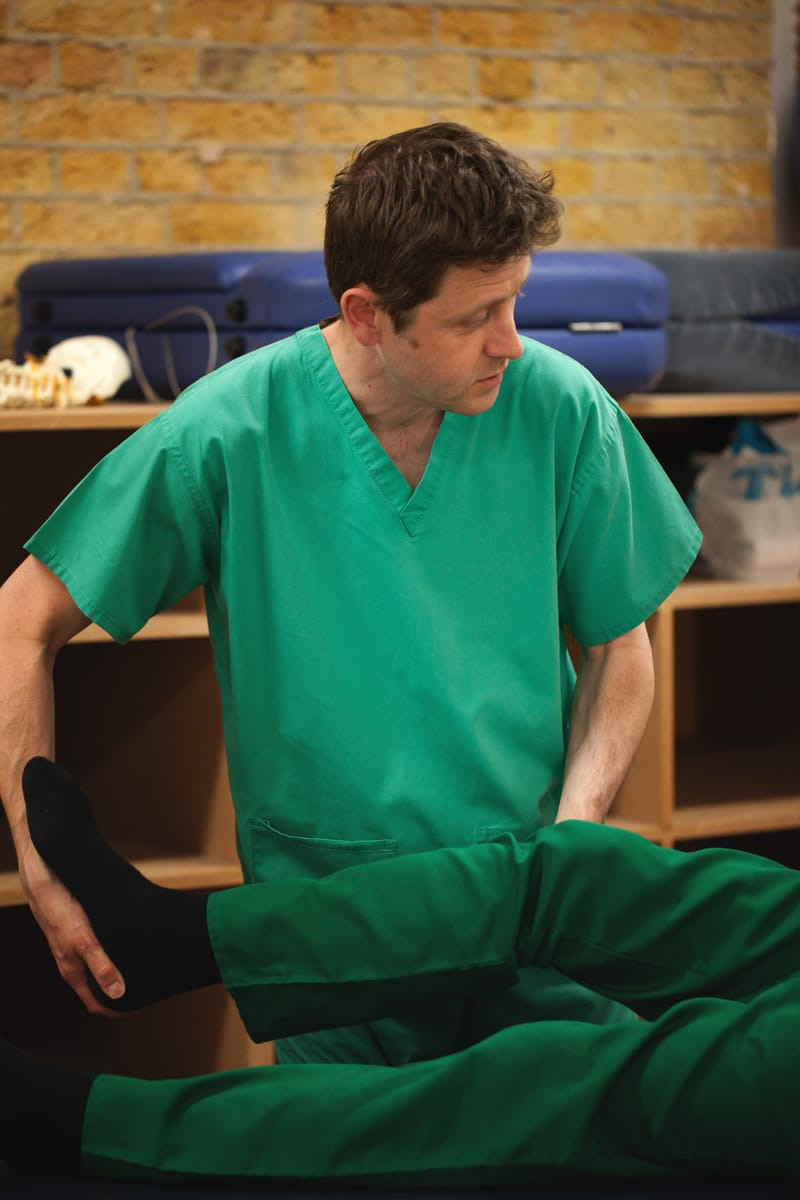
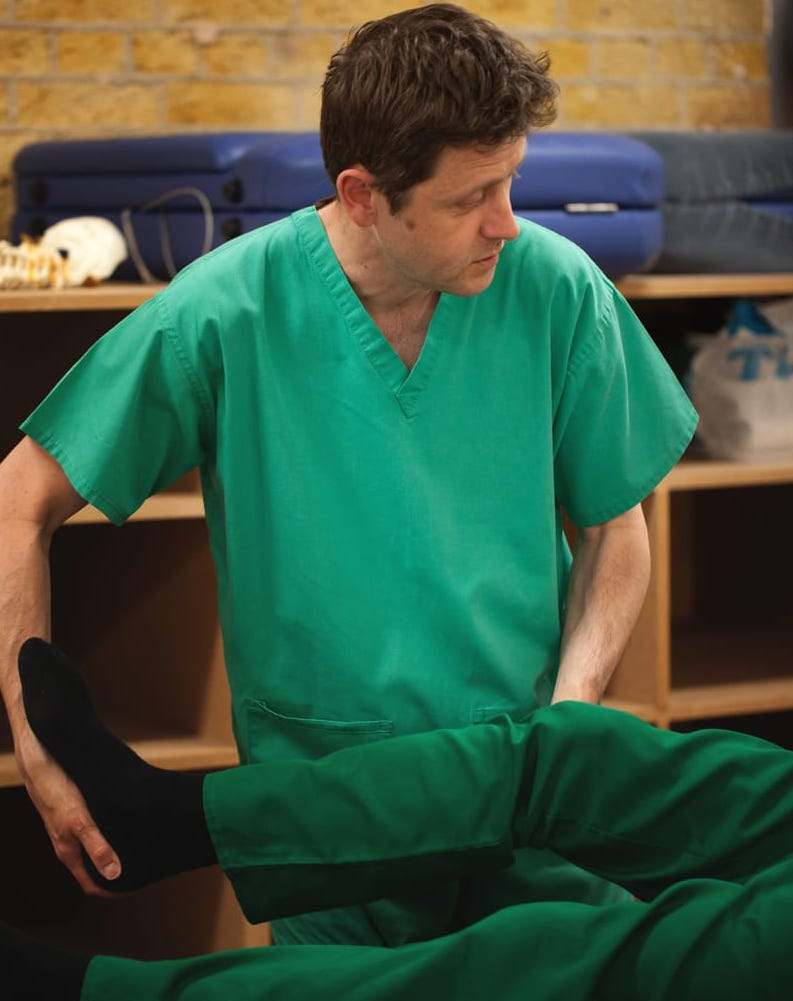
Solved Polaroid fit conundrum

diff --git a/files/gallery.html b/files/gallery.html
@@ -35,7 +35,15 @@
         <figcaption>A description can go here if you wish.</figcaption>
       </figure>
       <figure>
+        <img src="../lecturing-images/manus-1.jpg">
+        <figcaption>A description can go here if you wish.</figcaption>
+      </figure>
+      <figure>
         <img src="../lecturing-images/wa0015.jpg">
+        <figcaption>A description can go here if you wish.</figcaption>
+      </figure>
+      <figure>
+        <img src="../lecturing-images/manus-3.jpg">
         <figcaption>A description can go here if you wish.</figcaption>
       </figure>
       <figure>
@@ -91,15 +99,7 @@
         <figcaption>A description can go here if you wish.</figcaption>
       </figure>
       <figure>
-        <img src="../lecturing-images/manus-1.jpg">
-        <figcaption>A description can go here if you wish.</figcaption>
-      </figure>
-      <figure>
         <img src="../lecturing-images/manus-2.jpg">
-        <figcaption>A description can go here if you wish.</figcaption>
-      </figure>
-      <figure>
-        <img src="../lecturing-images/manus-3.jpg">
         <figcaption>A description can go here if you wish.</figcaption>
       </figure>
       <figure>

diff --git a/files/style.css b/files/style.css
@@ -57,11 +57,15 @@ a:hover {
 
 figure {
   width: 180px;
+  margin-right: 10px;
+  margin-bottom: auto;
   box-shadow: 0 4px 8px 0 rgba(0, 0, 0, 0.2), 0 6px 20px 0 rgba(0, 0, 0, 0.19);
 }
 
 figure img {
   width: 180px;
+  height: 150px;
+  object-fit: cover;
 }
 
 figcaption {
